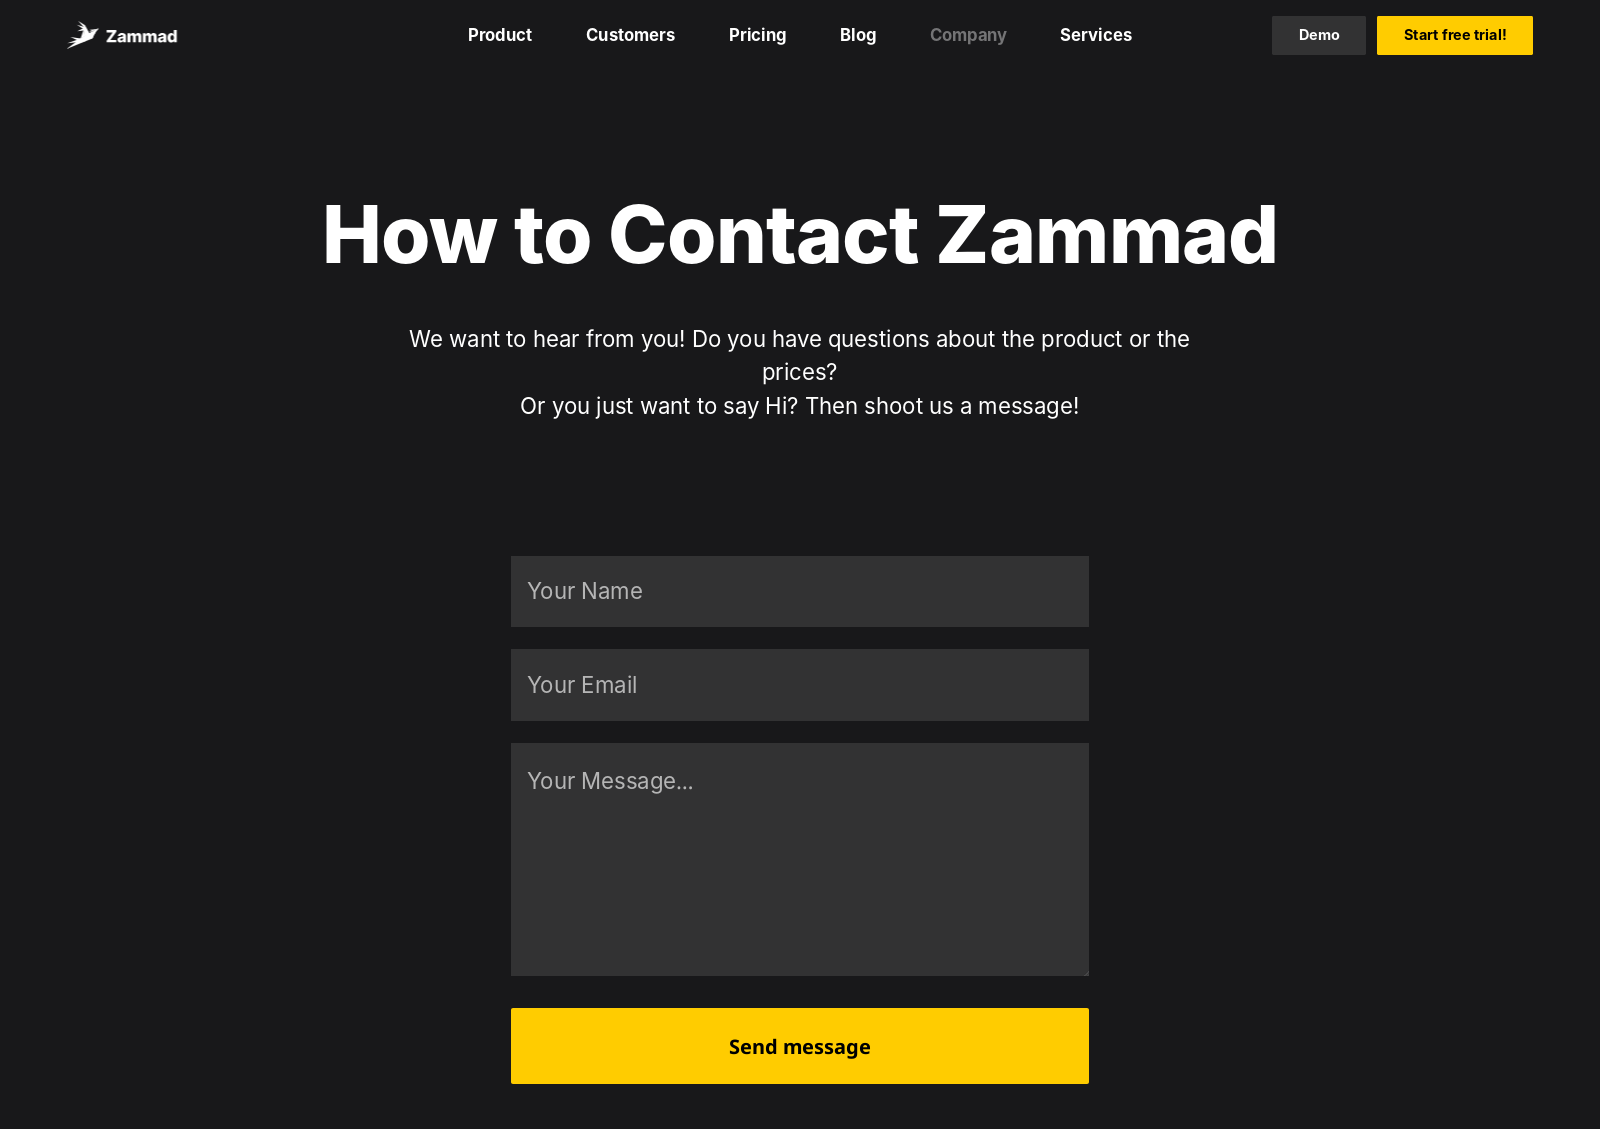
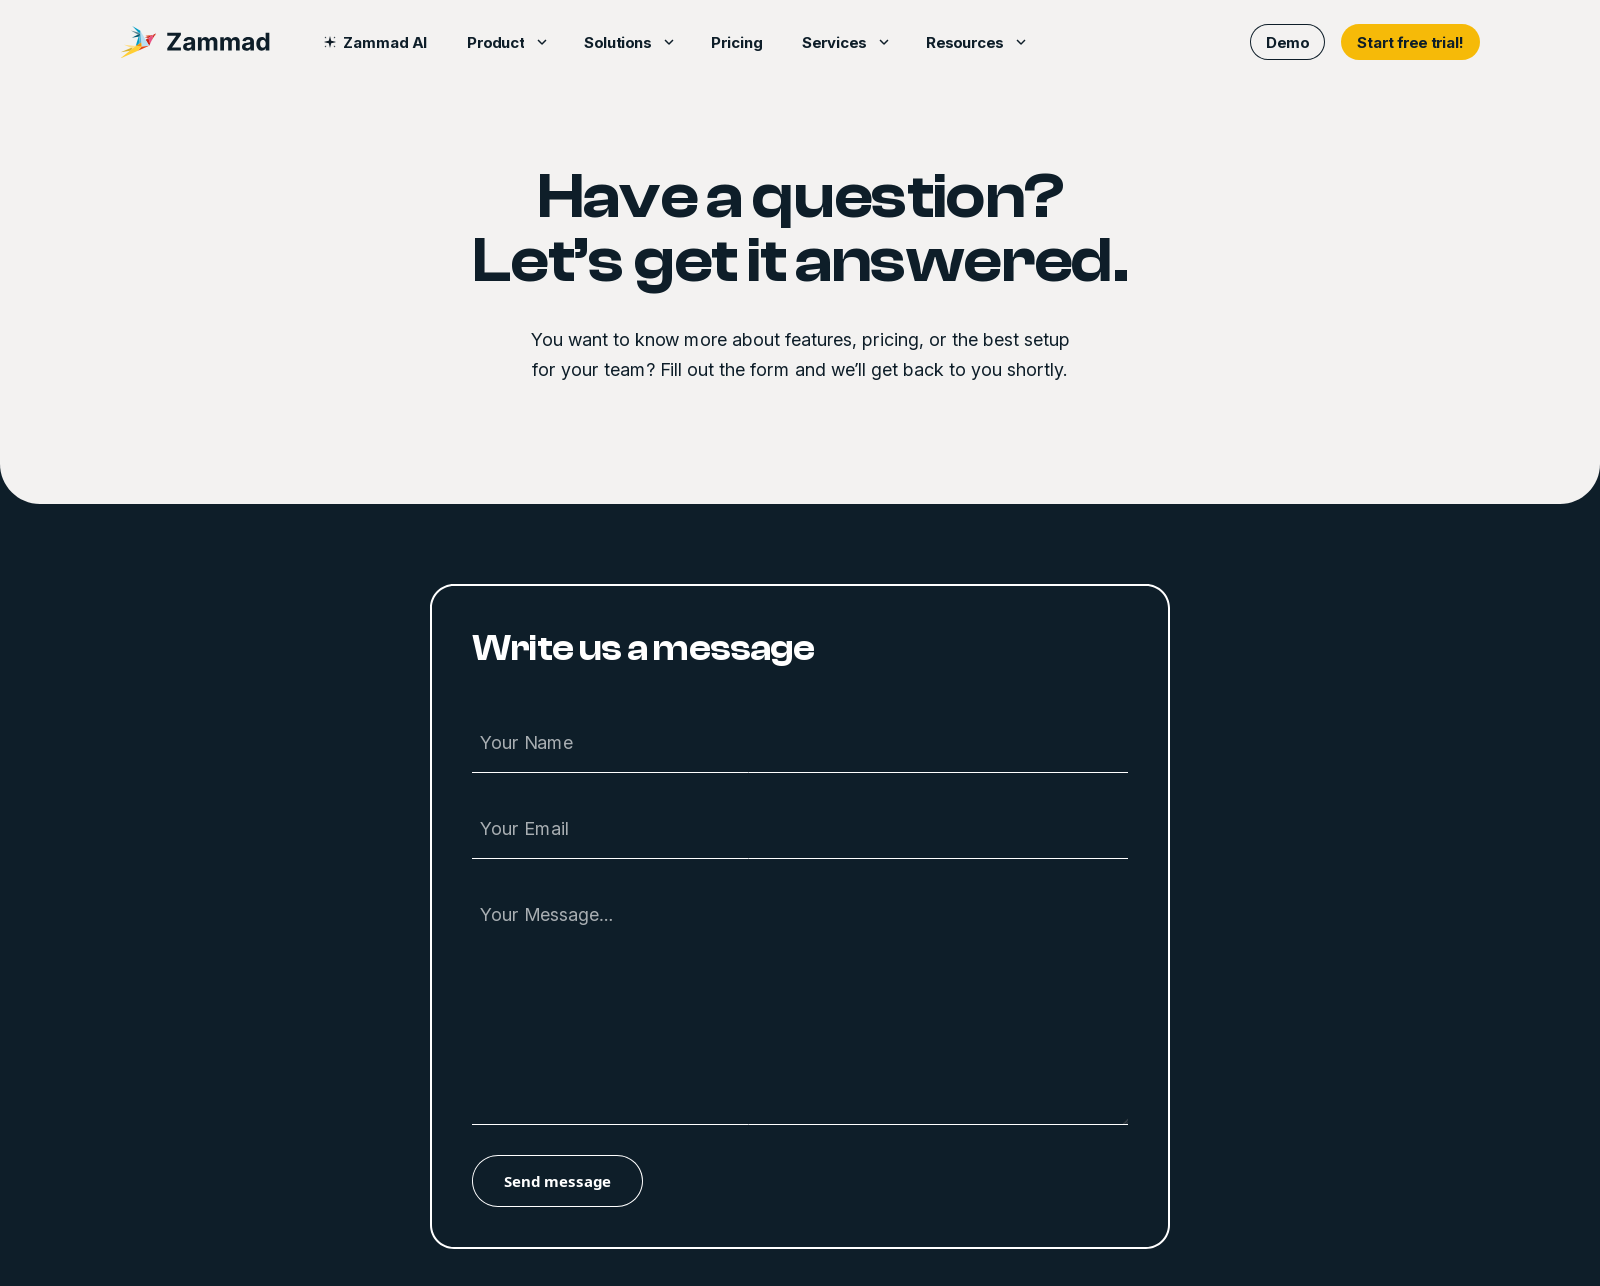
Channels > Form

diff --git a/channels/form.rst b/channels/form.rst
@@ -1,28 +1,29 @@
 Form
 ====
 
-Feedback or contact forms are used on websites quite often.
-Usually they will generate an email which will be sent to somebody who forwards
-it and so on. With Zammad it's quite easy to integrate these forms into your
-website and directly generate tickets with them. In just 2 minutes.
+Configure a feedback or contact form for your website so customers can get
+in touch with you without using their email client.
+Usually, such contact forms generate an email which is sent to somebody who
+forwards it and so on. With Zammad, it's quite easy to integrate these forms
+into your website and directly generate tickets out of them. To configure a form
+under *Channels > Form*, you need to have the permission
+``admin.channel_formular``.
 
 .. figure:: /images/channels/form/form-channel-management.png
-   :alt: Zammad form management page
+   :alt: Screenshot shows Zammad's form management configuration.
 
 Limitations
 -----------
 
-Please note the following limitations:
+- The fields provided by the form are limited to:
 
-   * The fields provided by the form are limited to the following:
+   - Name
+   - Email
+   - Message
+   - Attachment upload (optional)
+   - Checkbox for custom agreement text (optional)
 
-     * Name
-     * Email
-     * Message
-     * Attachment upload (optional)
-     * Checkbox for custom agreement text (optional)
-
-   * As of now only one dedicated form per instance is possible
+- Only one dedicated form per instance is possible.
 
 Settings
 --------
@@ -30,11 +31,9 @@ Settings
 Zammad comes with certain settings for forms.
 
 Active
-   By default the form channel is *inactive*.
-   Use the switch in front of "Form" to activate this channel.
-
-   Forms will not be displayed on your website if the channel is not active.
-   This does not affect the form *preview* on the channels setting page.
+   By default, the form channel is inactive. Use the switch to activate this
+   channel. The form will not be displayed on your website if the channel is not
+   active. This does not affect the form *preview* on the channels setting page.
 
 Group selection for ticket creation
    The group you set here defines where tickets should be created if they're
@@ -43,27 +42,22 @@ Group selection for ticket creation
 Designer
 --------
 
-This section helps you to configure your form in the channel's scope.
-If you're happy with what you've chosen, you're provided with the code you
-need to copy to your website.
+This section helps you to configure your form. If you're happy with what you've
+chosen, you get a code you need to copy to your website.
 
 .. warning::
 
-   The designer's changes *are not* stored anywhere in Zammad.
+   The designer's changes are not stored anywhere in Zammad.
    This means that the provided source code needs to be copied every time
    you change settings here.
 
 .. figure:: /images/channels/form/form-channel-designer.png
-   :alt: Zammad's form designer supports you with the initial configuration
-         of your form.
+   :alt: Screenshot shows Zammad's form designer with an initial configuration.
    :align: center
 
-So let's talk about the options the designer provides.
-
 Title of the form
-   Choose how the heading of the form should be called.
-   This setting is only relevant if you choose to display the form title in the
-   form.
+   Choose the heading of the form. This is only relevant if you choose to
+   display the form title.
 
    Default: ``Feedback Form``
 
@@ -73,15 +67,12 @@ Name of form submit button
    form is shown.
 
 Message after sending form
-   After your user pressed the submit button, they will be provided with
-   a message containing the ticket number of the newly created ticket.
-
-   Default *after* sending a form will look like so:
+   After users click the submit button, a message gets shown with the ticket
+   number of the newly created ticket. Example for default configuration:
 
    .. code-block:: text
 
-      Thank you for your inquiry (#31015)!
-      We'll contact you as soon as possible.
+      Thank you for your inquiry (#31015)! We'll contact you as soon as possible.
 
 Options
    Zammad provides the following additional configuration options for your form.
@@ -93,7 +84,7 @@ Options
       .. warning:: This option *should not* be active on productive forms!
 
    Show title in form
-      This setting belongs to the setting ``Title of the form`` and will
+      This setting is related to **Title of the form** and will
       provide the form title within the form dialog if selected.
 
    Start modal dialog for form
@@ -101,54 +92,47 @@ Options
       Not selecting this option allows you to natively integrate the form within
       your website's body.
 
-      No matter what you select here, the form *is always* loaded completely
-      if your user browses the page containing the form.
-
+      No matter what you select here, the form is always loaded completely
+      if your user browses the page which contains the form.
       This option is set by default.
 
    Don't load CSS for the form. You need to generate your own CSS for the form.
-      By default Zammad's form comes with basic CSS. This may not fit your
+      By default, Zammad's form comes with basic CSS. This may not fit your
       website's design or even interfere with it.
-
       Selecting this option allows you to freely design the form without having
       to overwrite existing directives.
 
    Add attachment option to upload
       Allows your user to upload **one attachment** to the form.
 
-      The allowed attachment sizes *is not* limited. The only limitation that
-      applies is your web servers upload limit.
+      The allowed attachment sizes is not limited. The only limitation that
+      applies is your web server's upload limit.
 
       .. hint:: If you are a SaaS customer, attachments are limited by the
          package you've chosen.
 
    Add agreement text before submit
-      If enabled, this will allow you define a text that the form will display
-      together with a checkbox. Thereby you can ensure your form conforms
-      to legal requirements, e.g. by providing data privacy notes that the user has
-      to accept before submitting the form.
+      If enabled, this allows you to define a text that the form displays
+      together with a checkbox. Whit this, you can ensure your form conforms
+      to legal requirements, e.g. by providing data privacy notes which the user
+      has to accept before submitting the form. Use the ``🔗 Weblink`` button to
+      add links to marked text passages.
 
       .. figure:: /images/channels/form/form-channel_acceptance-setting.png
          :alt: Screenshot shows form designer with activated agreement text setting and selected text to add a hyperlink.
          :scale: 70%
          :align: center
 
-         Zammad provides a free text form with limited capabilities.
-         Use the **🔗 Weblink** button to add links to marked text passages.
-
-         This allows you to link e.g. to your data privacy or ToS information.
-
 Preview
 -------
 
 Below the form options, Zammad provides a preview section to visualize the
-settings you've just chosen. By default, you'll see a button named **Feedback**.
-
+settings you've just chosen. By default, you'll see a button named ``Feedback``.
 Clicking on the button will open the form modal. If the form channel is set
-to active, you already are able to create tickets even from this preview mode.
+to active, you are already able to create tickets; even from the preview.
 
 .. figure:: /images/channels/form/form-channel-preview-your-configuration.png
-   :alt: Screenshot showing the preview section for the just configured form
+   :alt: Screenshot shows the preview section for the configured form.
    :scale: 70%
    :align: center
 
@@ -162,10 +146,10 @@ Header section
    The first code block provides you with Zammad's current jQuery dependency.
    This script section usually belongs to your website's header section.
 
-   The channel form suggests the following script tag which loads the
-   javascript library required **from an external site**. This may not
-   suite your local requirements. You can use locally hosted jQuery version,
-   **however** the version is fixed.
+   The channel form suggests the following script tag, which loads the
+   javascript library required from an external site. This may not
+   suite your local requirements. You can use a locally hosted jQuery version,
+   however the version is fixed.
 
    ``<script src="https://code.jquery.com/jquery-3.6.0.min.js"></script>``
 
@@ -175,15 +159,12 @@ Header section
 
 Body section
    The second code block is the actual code required for your form to run.
-   It is updated automatically when changing settings in the
-   designer above.
+   It is updated automatically when changing settings in the designer above.
 
    The first line containing ``id="zammad-feedback-form"`` highly depends on
    the settings selected above. This part belongs into the place you actually
-   want the form or form button to appear.
-
-   The rest can either be placed at the same level or somewhere else on the
-   same page.
+   want the form or form button to appear. The rest can either be placed at the
+   same level or somewhere else on the same page.
 
    .. note::
 
@@ -192,23 +173,30 @@ Body section
       figuring out where exactly to place what.
 
 Take the Zammad website as an example, the embedded form version can look
-like the following if you apply custom CSS to it.
+like this if you apply custom CSS to it:
 
 .. figure:: /images/channels/form/zammad-contact-form.png
-   :alt: Screenshot showing the zammad.com website with embedded web form
+   :alt: Screenshot shows the zammad.com website with embedded web form
    :scale: 50%
    :align: center
 
 Potential Spam Issue
 --------------------
 
-The Form function could be abused by sending a high amount of
-messages / tickets to your Zammad instance. If you do not use Zammad Forms:
-**disable** them.
+The form channel could be abused by sending a high amount of
+messages / tickets to your Zammad instance. If you do not use the form, you
+should disable it. If you want to use it, don't worry: Zammad limits the maximum
+amount of created tickets based on different criteria. It also ensures that the
+provided email address is valid (with MX-check on the email's domain).
 
-But don't worry! Zammad does limit the maximum count of created tickets based on
-different criteria. It also ensures that the email address being used is valid
-(with MX-Check on the email's domain).
+Settings
+^^^^^^^^
+
+You can change the default values by using the console settings below. Please
+keep in mind, that setting those values higher might lead to problems in terms
+of created tickets. Read the
+:docs:`console section in the system documentation </admin/console.html>` about
+how to use Zammad's Rails console.
 
 .. list-table:: Form settings to limit ticket creation
    :header-rows: 1
@@ -227,27 +215,22 @@ different criteria. It also ensures that the email address being used is valid
      - ``5000``
      - Limits ticket creation for forms to 5000 tickets per day
 
+Examples
+^^^^^^^^
 
-.. hint::
-
-   | You can change these default values. Please keep in mind, that setting
-     those values higher might lead to problems in term of created tickets.
-   |
-   | Please note that the following changes require console access to your Zammad host.
-
-**Change the ticket creation per IP and hour to 10**:
+Change the ticket creation per IP and hour to 10:
 
 .. code-block:: irb
 
    >> Setting.set('form_ticket_create_by_ip_per_hour','10')
 
-**Change the ticket creation per IP and hour to 50**:
+Change the ticket creation per IP and hour to 50:
 
 .. code-block:: irb
 
    >> Setting.set('form_ticket_create_by_ip_per_day','50')
 
-**Change the ticket creation per day to 500**:
+Change the ticket creation per day to 500:
 
 .. code-block:: irb
 
@@ -257,12 +240,9 @@ Further Options to Make it Harder
 ^^^^^^^^^^^^^^^^^^^^^^^^^^^^^^^^^
 
 Another way to make it harder for bots to automate against your Zammad instance
-is to change the location of ``form.js``
-( ``/opt/zammad/assets/form/form.js`` ).
+is to change the location of ``form.js`` ( ``/opt/zammad/assets/form/form.js`` ).
 
-Please keep in mind if you change the location of ``form.js`` (by e.g. copying)
-that you need to ensure that your ``form.js`` stays up to date if you update
-Zammad.
-
-It's not recommended to delete form.js from it's location in that case, but to
-forbid access to it via your web server configuration.
+Please keep in mind: if you change the location of ``form.js``
+(e.g. by copying), you need to ensure that your ``form.js`` stays up to date if
+you update Zammad. It's not recommended to delete ``form.js`` from it's location
+in that case, but to forbid access to it via your web server configuration.